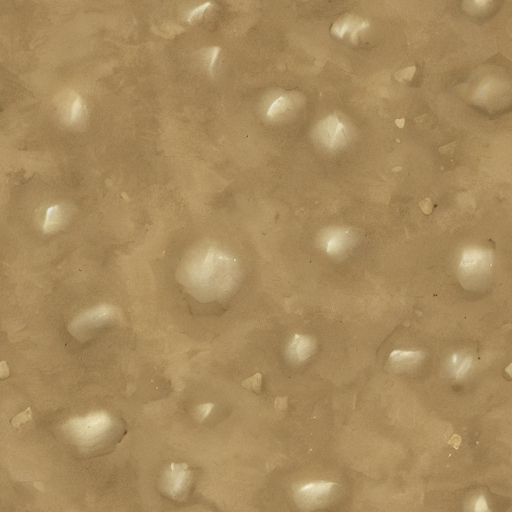
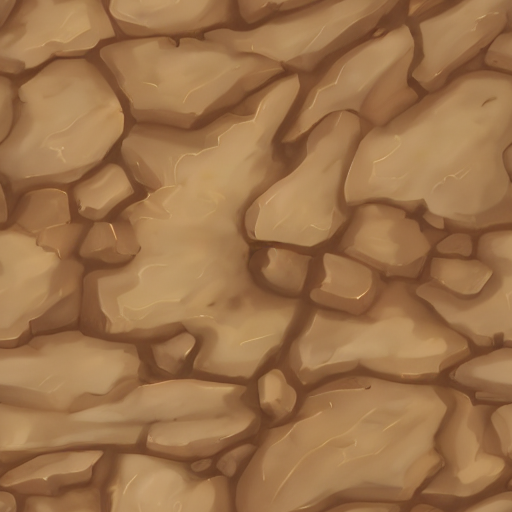
новые задние фоны, таймер, хп у мобов(пока только как атрибут у класса)

diff --git a/game.py b/game.py
@@ -65,43 +65,48 @@ def movement_to_direction(movement):
     if movement == [-1, 0]:
         return 'right'
 
+
 class Player(Sprite):
     def __init__(self, pos_x, pos_y):
         super().__init__(all_sprites, hero_group)
         self.image = player_image
+        self.rect = self.image.get_rect().move(pos_x - size[0] // 2, pos_y - size[1] // 2)
+
         self.movement = [0, 0]
         self.direction = 'down'
-        self.rect = self.image.get_rect().move(pos_x - size[0] // 2, pos_y - size[1] // 2)
-        self.hitboxes = []
-        self.is_attack = False
         self.pos = (pos_x - size[0] // 2, pos_y - size[1] // 2)
         self.pos_x, self.pos_y = pos_x, pos_y
+
+        self.hitboxes = []
+        self.is_attack = False
+
         self.step = 0
 
     def update_hitboxes(self):
-        base_hitbox = self.rect.copy().move(size[0]//2 -32,size[1]//2-32)
-        up_hitbox = base_hitbox.copy().move(0,-5)
+        base_hitbox = self.rect.copy().move(size[0] // 2 - 32, size[1] // 2 - 32)
+        up_hitbox = base_hitbox.copy().move(0, -5)
         down_hitbox = base_hitbox.copy().move(0, 5)
         left_hitbox = base_hitbox.copy().move(-5, 0)
         right_hitbox = base_hitbox.copy().move(5, 0)
-        self.hitboxes = list(zip([up_hitbox,down_hitbox,left_hitbox,right_hitbox],['up','down','left','right'],[(0,-10),(0,10),(-10,0),(10,0)]))
+        self.hitboxes = list(zip([up_hitbox, down_hitbox, left_hitbox, right_hitbox], ['up', 'down', 'left', 'right'],
+                                 [(0, -10), (0, 10), (-10, 0), (10, 0)]))
         if debug:
-            pygame.draw.rect(screen,pygame.Color('yellow'),up_hitbox,width=5)
+            pygame.draw.rect(screen, pygame.Color('yellow'), up_hitbox, width=5)
             pygame.draw.rect(screen, pygame.Color('blue'), down_hitbox, width=5)
             pygame.draw.rect(screen, pygame.Color('green'), left_hitbox, width=5)
             pygame.draw.rect(screen, pygame.Color('purple'), right_hitbox, width=5)
 
-    def attack(self,size_obj):
-        attack_hitbox = self.rect.copy().move(size[0]//2 -32,size[1]//2-32)
+    def attack(self, size_obj):
+        attack_hitbox = self.rect.copy().move(size[0] // 2 - 32, size[1] // 2 - 32)
         for i in self.hitboxes:
             if self.direction == i[1]:
-                attack_hitbox = i[0].copy().move(tuple(map(lambda x:x*2,i[2])))
+                attack_hitbox = i[0].copy().move(tuple(map(lambda x: x * 2, i[2])))
         if debug:
             pygame.draw.rect(screen, pygame.Color('red'), attack_hitbox, width=5)
         for enemy in enemy_group:
             if attack_hitbox.colliderect(enemy.rect):
-
                 enemy.kill()
+
     def move(self, x, y, size_obj):
         self.update_hitboxes()
 
@@ -110,16 +115,12 @@ class Player(Sprite):
             self.attack(size_obj)
             return 0
 
-
-
         if sum(map(abs, self.movement)) == 0:
             player_animation(self, 'idle', 'with sword and shield', 16, size_obj)
         else:
             self.pos = (x, y)
             self.pos_x, self.pos_y = (x, y)
             player_animation(self, 'walk', 'with sword and shield', 16, size_obj)
-
-
 
 
 def player_animation(player, type_move, type_sprite, player_fps, size_obj):
@@ -151,24 +152,29 @@ class Enemy(Sprite):
         self.size = tuple(map(lambda x: x // 2, list(size)))
         self.image = pygame.transform.scale(load_image(f'enemy\{self.type}\walk\left_walk1.png'),
                                             self.size)
+
         self.direction = 'left'
         self.pos_x, self.pos_y = ((hero.pos[0] + random.randint(200, 500) * random.choice([-1, 1])),
                                   (hero.pos[1] + random.randint(200, 500) * random.choice([-1, 1])))
         self.rect = self.image.get_rect().move(self.pos_x, self.pos_y)
-
-
         self.pos = (self.pos_x, self.pos_y)
+
+        global enemy_max_health
+        self.max_hp = enemy_max_health
+        self.hp = enemy_max_health
+
         self.step = 0
+
+    def take_damage(self,damage):
+        self.hp -= damage
 
     def move(self, speed):
 
         if debug:
-            pygame.draw.rect(screen,(0,0,0),self.rect,width=5)
-
+            pygame.draw.rect(screen, (0, 0, 0), self.rect, width=5)
 
         if len(pygame.sprite.spritecollide(self, enemy_group, False)) != 1:
-            speed = random.randrange(0, speed)
-
+            speed = random.randint(0, speed)
 
         x1, y1 = self.pos
         x2, y2 = hero.pos
@@ -234,24 +240,26 @@ screen = pygame.display.set_mode((0, 0), pygame.FULLSCREEN)
 screen_size = width, height = (pygame.display.get_surface().get_width(), pygame.display.get_surface().get_height())
 
 clock = pygame.time.Clock()
-pygame.time.set_timer(pygame.USEREVENT,1000)
+pygame.time.set_timer(pygame.USEREVENT, 1000)
 
 all_sprites = SpriteGroup()
 hero_group = SpriteGroup()
 enemy_group = SpriteGroup()
 
-
 FPS = 60
 running = True
-background = load_image(f'ground/{random.randint(1, 6)}.png')
+background = load_image(f'ground/{random.randint(1, 98)}.png')
 player_image = pygame.transform.scale(load_image('player/Character without weapon/idle/idle down1.png'), (64, 64))
 hero = Player(width // 2, height // 2)
 camera = Camera()
 
-debug = False
+debug = True
 
 counter = 0
 counter_font = pygame.font.SysFont('Consolas', 60)
+
+enemy_max_health = 100
+
 
 while running:
     for event in pygame.event.get():
@@ -259,6 +267,9 @@ while running:
             running = False
         elif event.type == pygame.USEREVENT:
             counter += 1
+            if counter % 30 == 0:
+                enemy_max_health *= 1.2
+                print(enemy_max_health)
             Enemy()
         elif event.type == pygame.MOUSEBUTTONDOWN:
             if event.button == 1:
@@ -296,14 +307,12 @@ while running:
     for sprite in enemy_group:
         sprite.move(5)
 
-
     for sprite in all_sprites:
         camera.apply(sprite)
     all_sprites.draw(screen)
     hero_group.draw(screen)
 
-    screen.blit(counter_font.render(str(counter),True,(155,0,0,100)),(width//2 - 16,height//4))
-
+    screen.blit(counter_font.render(str(counter), True, (155, 0, 0, 100)), (width // 2 - 16, height // 4))
 
     pygame.display.flip()
 
